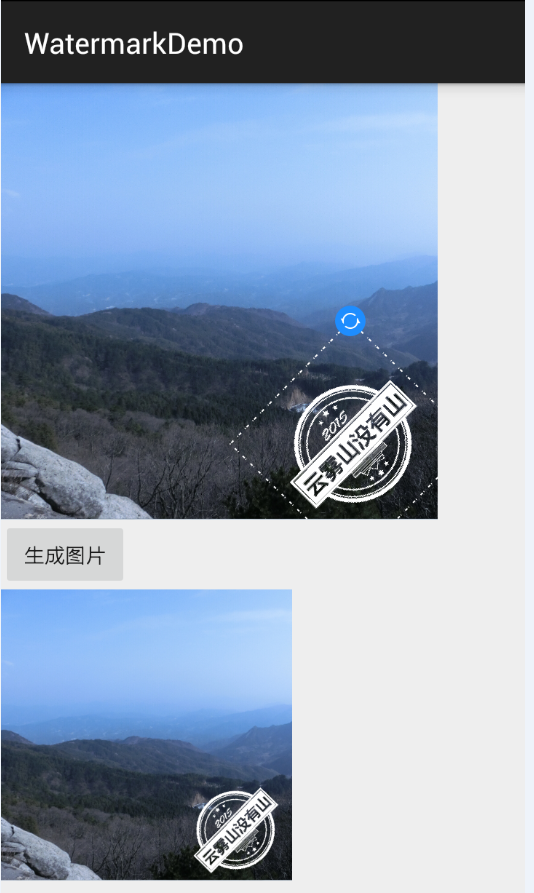
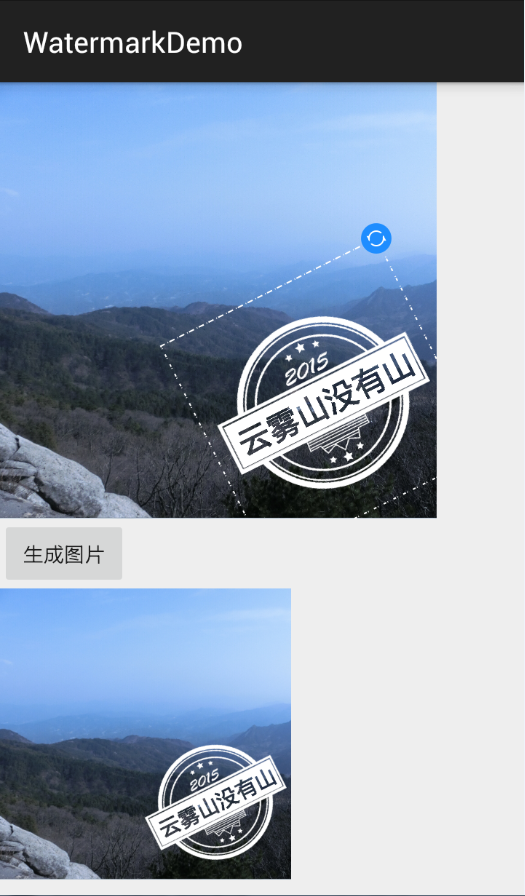
修复不清晰问题

diff --git a/app/src/main/java/com/example/mako/watermarkdemo/SingleTouchView.java b/app/src/main/java/com/example/mako/watermarkdemo/SingleTouchView.java
@@ -250,6 +250,7 @@ public class SingleTouchView extends View {
     private void init(){
         mPaint = new Paint();
         mPaint.setAntiAlias(true);
+        mPaint.setFlags(Paint.ANTI_ALIAS_FLAG);
         mPaint.setColor(frameColor);
         mPaint.setStrokeWidth(frameWidth);
         mPaint.setStyle(Style.STROKE);
@@ -369,7 +370,12 @@ public class SingleTouchView extends View {
         super.onDraw(canvas);
 
         if(mBitmap == null) return;
-        canvas.drawBitmap(mBitmap, matrix, null);
+
+        Paint p=new Paint();
+        p.setAntiAlias(true);
+        p.setFlags(Paint.ANTI_ALIAS_FLAG);
+
+        canvas.drawBitmap(mBitmap, matrix, p);
 
         //处于可编辑状态才画边框和控制图标
         if(isEditable){

diff --git a/app/src/main/java/com/example/mako/watermarkdemo/MainActivity.java b/app/src/main/java/com/example/mako/watermarkdemo/MainActivity.java
@@ -53,17 +53,14 @@ public class MainActivity extends ActionBarActivity {
                     iv.setEditable(true);
                 }
 
-
             }
         });
 
         Bitmap bitmap= BitmapFactory.decodeResource(getResources(), R.drawable.ic_watermark2);
 
-        WatermarkDrawable drawable=new WatermarkDrawable(this,"云雾山没有山",12,bitmap,80,80);
+        WatermarkDrawable drawable=new WatermarkDrawable(this,"云雾山没有山",44,bitmap,300,300);
 
         iv.setImageDrawable(drawable);
-
-
 
     }
 
